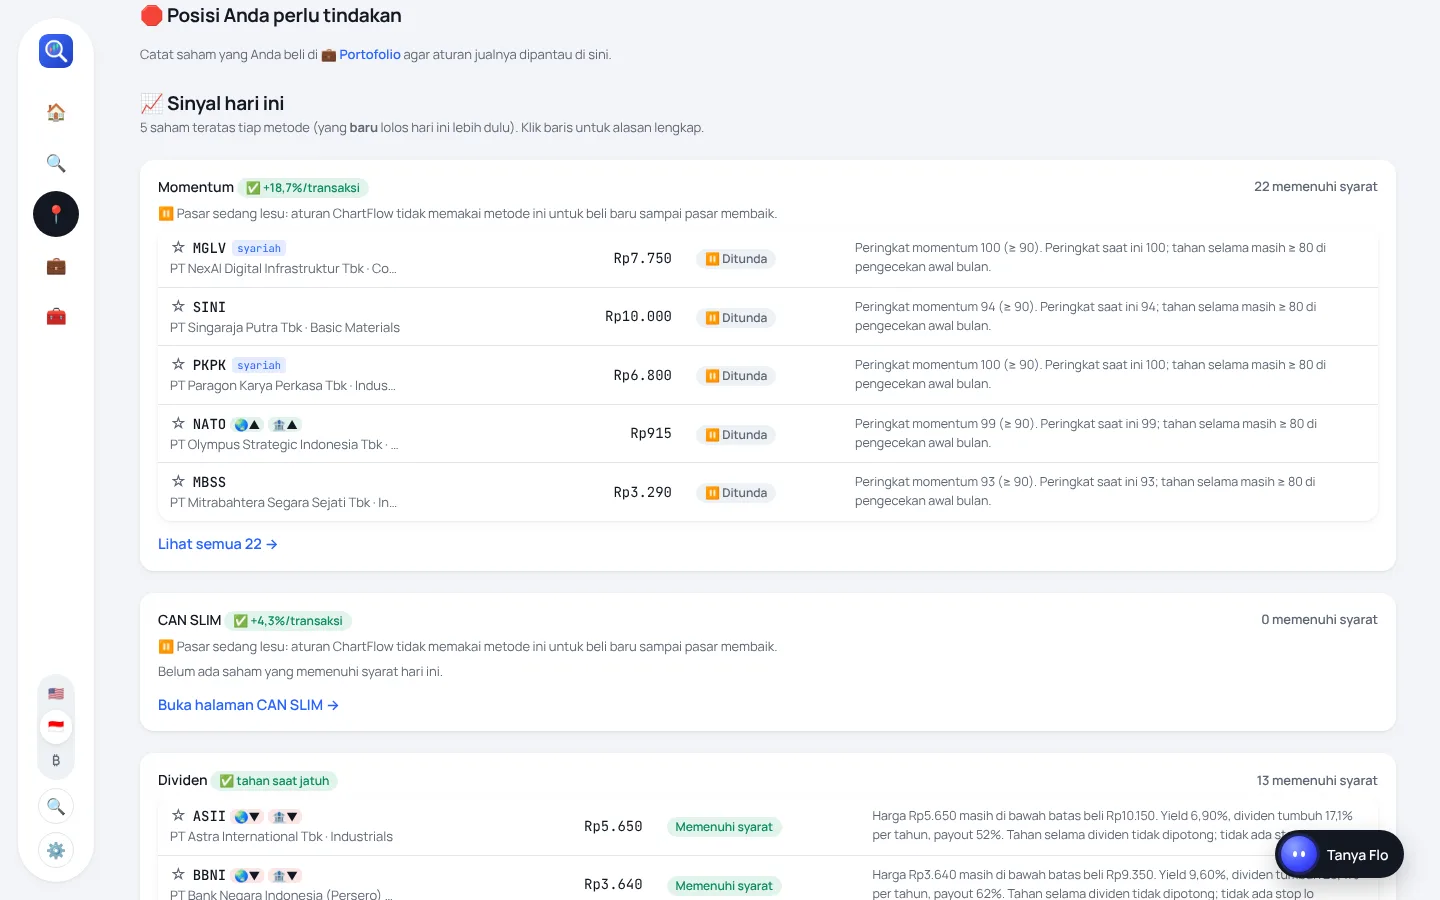
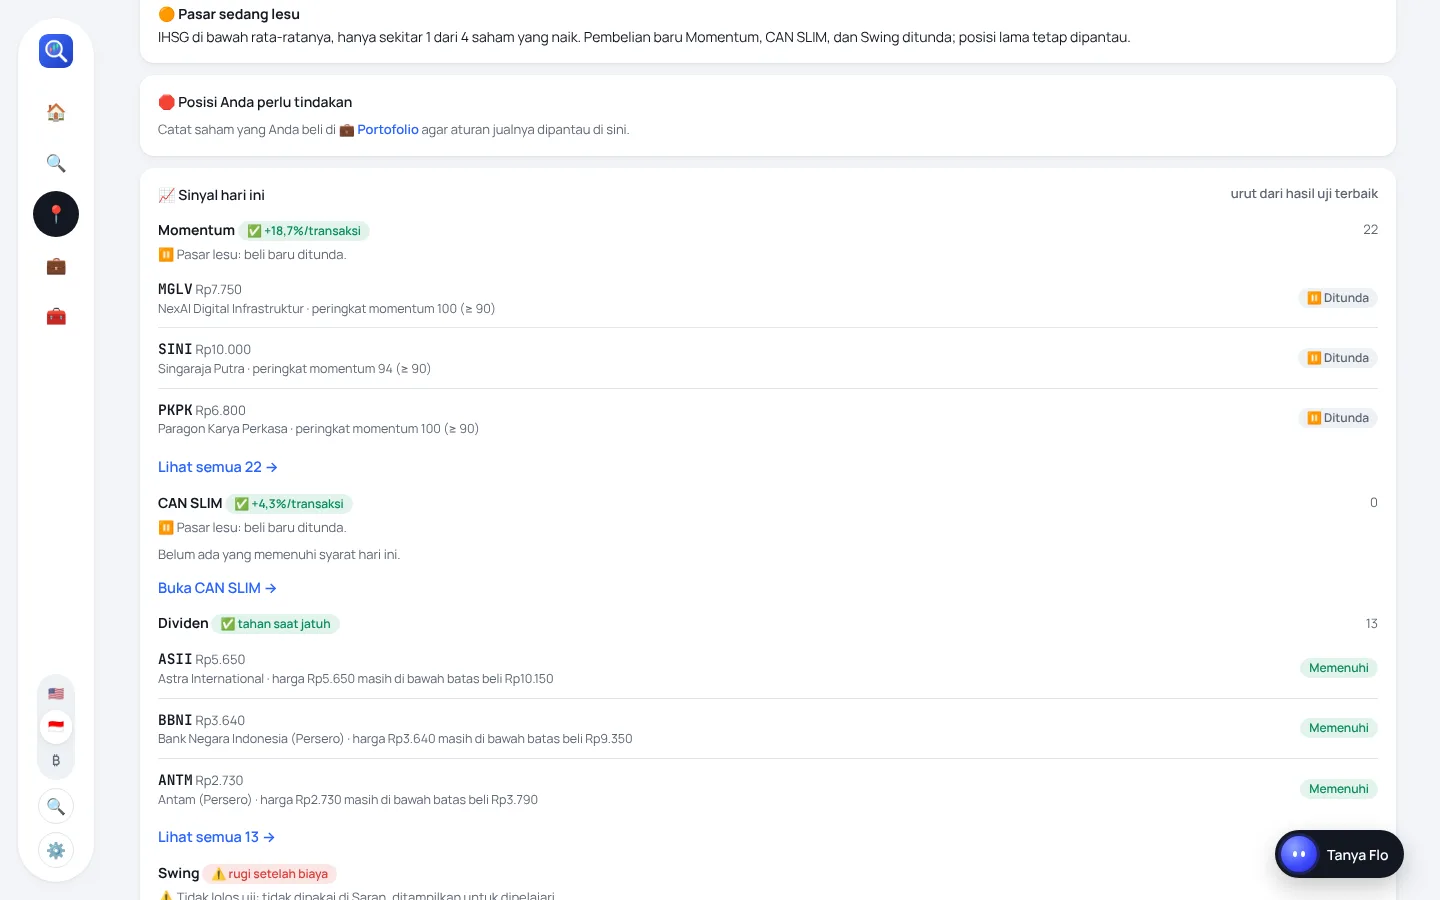
Sinyal & Beranda disamakan dengan gambar usulan
- Tab Sinyal: baris ringkas (kode, harga, nama singkat + alasan pendek,
  label di kanan), 3 teratas per metode dalam satu kartu "Sinyal hari ini",
  pita kondisi pasar di atas menggantikan kotak Saran panjang.
- Beranda: pita pasar, "📌 Hari ini", ringkasan Portofolio, dan
  "📊 Metode yang paling terbukti" sebelum grafik.
- Screenshot galeri shot-watch & shot-mobile diambil ulang.

Claude-Session: https://claude.ai/code/session_0176tunsb29pAdeSU8BJReWp

diff --git a/index.html b/index.html
@@ -737,6 +737,11 @@ body{transition:padding-right .55s cubic-bezier(.2,.8,.2,1)}
 /* ---------- Pengaturan: ukuran huruf & animasi ---------- */
 :root[data-fs=s]{zoom:.9}:root[data-fs=l]{zoom:1.12}
 :root[data-anim="0"] *,:root[data-anim="0"] *::before,:root[data-anim="0"] *::after{animation:none!important;transition:none!important;scroll-behavior:auto!important}
+.sgi{display:flex;justify-content:space-between;align-items:center;gap:10px;padding:10px 0;border-top:1px solid var(--line);cursor:pointer}
+.sgi:first-child{border-top:none}.sgi>div{min-width:0}.sgi .tk{font-weight:800}.sgi .sub{display:block;color:var(--muted);font-size:12.5px;line-height:1.4;overflow-wrap:anywhere}
+.sgi .pf{display:block;font-size:11.5px;font-weight:700;color:var(--good)}.sgi .pf.no{color:var(--bad)}.sgi .pf.mu{color:var(--muted)}.sgi>.st,.sgi>.rt{flex:none;white-space:nowrap}
+.sgh{display:flex;justify-content:space-between;align-items:center;gap:8px;margin:12px 0 2px;font-size:14px}.sgh:first-child{margin-top:0}
+.mband{border-left:5px solid var(--warn);gap:2px;font-size:14px}.mband.g{border-left-color:var(--good)}.mband.r{border-left-color:var(--bad)}
 .linkbtn{background:none;border:none;color:var(--accent);font:inherit;font-weight:600;cursor:pointer;padding:6px 0 0;text-align:left}
 .sgc{gap:6px}.sgc h4{flex-wrap:wrap;gap:6px}.sgc table td{padding-top:8px;padding-bottom:8px}
 /* ---------- Pengaturan: dialog ---------- */
@@ -1184,7 +1189,7 @@ function renderSummary(box){
   const E=(DATA&&DATA.etf)||{}, ek=Object.keys(E).filter(k=>k!=="IHSG"&&E[k].perf1y!=null).slice(0,3);
   const etfNote=IS_ID?(E.IHSG&&E.IHSG.perf1y!=null?`<p class="note">Pembanding: IHSG ${pct(E.IHSG.perf1y)} dalam setahun. ETF di BEI umumnya sepi transaksi, jadi membeli saham pilihan atau reksa dana indeks sering lebih praktis.</p>`:"")
     :(ek.length?`<p class="note">Cara paling sederhana tetap membeli indeks: ${ek.map(k=>`${esc(k)} ${pct(E[k].perf1y)}`).join(" · ")} dalam setahun. Bila tidak sempat memilih saham, ini pilihan dengan bukti terkuat.</p>`:"");
-  box.innerHTML=todayCard()+dashHTML(filtered())+saranBox(sm.html+candHtml+etfNote)+`<div class="rhead"><div class="l"><h2>Sinyal 7 metode per saham</h2>
+  box.innerHTML=homeTop()+dashHTML(filtered())+saranBox(sm.html+candHtml+etfNote)+`<div class="rhead"><div class="l"><h2>Sinyal 7 metode per saham</h2>
       <p class="note">${ixFilter==="L"?"Saham likuid saja. ":""}${counts.buy} saham layak beli${counts.hold?`, ${counts.hold} ada di Portofolio Anda`:""}${counts.sell?`, ${counts.sell} punya sinyal jual (hindari)`:""}. Klik baris untuk alasan, harga patokan, dan kriteria tiap metode.</p></div>
       <label for="fSel">Tampilkan <select id="fSel">${[["","Semua saham"],["buy",`Layak beli (${counts.buy})`],["hold",`Di Portofolio (${counts.hold})`],["sell",`Sinyal jual (${counts.sell})`],["pass3","Lolos kriteria ≥ 3 metode"]].map(([v,t])=>`<option value="${v}" ${v===fSel?"selected":""}>${t}</option>`).join("")}</select></label></div>
     <div class="legend">${M.map(m=>`<span><span class="mc wait" style="width:20px;height:18px">${m.abbr}</span>${esc(m.name)}</span>`).join("")}
@@ -2064,12 +2069,27 @@ function sigBuyNew(){ const allow=allowedMethods(); let n=filtered().filter(o=>a
 function todayCard(){
   const P=porto(), acts=P.open.length?sigActs():[], nb=sigBuyNew(), td=(DATA&&DATA.priceDate)||"", st=stars(), own=new Set(P.open.map(p=>p.code));
   const ex=rows.filter(o=>(st.has(o.ticker)||own.has(o.ticker))&&o.dv&&o.dv.ex&&o.dv.ex>=td&&(new Date(o.dv.ex)-new Date(td))/864e5<=7).length;
-  const it=(ic,txt,btn,cls,go)=>`<div class="row" style="cursor:pointer" data-gotab="${go}"><span>${ic} ${txt}</span><span class="st ${cls}" style="align-self:center;white-space:nowrap;flex:none">${btn}</span></div>`, L=[];
+  const it=(ic,txt,btn,cls,go)=>`<div class="sgi" data-gotab="${go}"><span>${ic} ${txt}</span><span class="st ${cls}">${btn}</span></div>`, L=[];
   if(P.open.length) L.push(acts.length?it("🛑",`<b>${acts.length} posisi</b> Anda perlu tindakan`,"lihat","sell","watch"):it("✅",`${P.open.length} posisi Anda belum perlu tindakan`,"cek","buy","porto"));
   L.push(nb?it("📈",`<b>${nb} sinyal beli baru</b> dari metode yang dipakai`,"lihat","buy","watch"):it("📈","Belum ada sinyal beli baru hari ini","lihat","wait","watch"));
   if(ex) L.push(it("💰",`<b>${ex} saham</b> pantauan/portofolio Anda ex-dividen dalam 7 hari`,"jadwal","hold","divcal"));
   if(!st.size) L.push(it("★","Tandai saham dengan ☆ agar dipantau di tab Sinyal","cara","wait","watch"));
-  return `<div class="mcard" style="gap:4px;margin-bottom:12px"><h4><span>📌 Hari ini</span><span class="note">${td?tgl(td,1):""}</span></h4><div class="dl">${L.join("")}</div></div>`;
+  return `<div class="mcard" style="gap:2px"><h4><span>📌 Hari ini</span><span class="note">${td?tgl(td,1):""}</span></h4><div>${L.join("")}</div></div>`;
+}
+// pita kondisi pasar ringkas (judul + satu kalimat)
+function marketBand(){ const r=regime(), idx=IS_ID?"IHSG":"S&P 500", fr=fracTxt(r.b);
+  const c=r.k==="naik"?"g":r.k==="campuran"?"":"r", ic=r.k==="naik"?"🟢":r.k==="campuran"?"🟡":"🟠";
+  const t=r.k==="naik"?"Pasar sedang sehat":r.k==="campuran"?"Pasar campuran":"Pasar sedang lesu";
+  const x=r.k==="tertekan"?`${idx} di bawah rata-ratanya${fr?`, hanya ${fr} saham yang naik`:""}. Pembelian baru Momentum, CAN SLIM, dan Swing ditunda; posisi lama tetap dipantau.`:r.k==="campuran"?`${fr?`Baru ${fr} saham yang sedang naik`:"Pasar belum kompak"}. Pilih-pilih, utamakan metode yang lolos uji.`:`${fr?`${fr[0].toUpperCase()+fr.slice(1)} saham sedang naik`:"Mayoritas saham sedang naik"}; semua metode aktif.`;
+  return `<div class="mcard mband ${c}"><b>${ic} ${t}</b><span>${x}</span></div>`; }
+// Beranda: ringkasan Portofolio + metode yang paling terbukti
+function homeTop(){
+  const P=porto(); let por="";
+  if(P.open.length){ const E=P.open.map(posEval).filter(e=>e.val!=null), v=E.reduce((a,e)=>a+e.val,0), c=E.reduce((a,e)=>a+e.cost,0), pl=E.reduce((a,e)=>a+e.pl,0);
+    por=`<div class="mcard" style="gap:2px;cursor:pointer" data-gotab="porto"><h4><span>💼 Portofolio</span><span class="note">${P.open.length} posisi</span></h4><div class="dl"><div><span>Nilai</span><b class="num">${usd(Math.round(v))}</b></div><div><span>Untung/rugi</span><b class="num ${pl>=0?"ok":"no"}">${pl>=0?"+":"−"}${usd(Math.abs(Math.round(pl)))} (${pct(c?pl/c*100:0,1)})</b></div></div></div>`; }
+  const top=ordTabs(M.map(m=>({id:m.id})).concat(IS_ID?[{id:"pbt"}]:[])).filter(x=>(methodProof(x.id)||{}).c==="buy").slice(0,3);
+  const pr=top.length?`<div class="mcard" style="gap:2px"><h4><span>📊 Metode yang paling terbukti</span><span class="note">uji ${ltYrs()}</span></h4><div>${top.map(x=>{ const q=methodProof(x.id); return `<div class="sgi" data-gotab="${x.id}"><span>${esc(x.id==="pbt"?"Pullback Tren":MID[x.id].name)}</span><span class="pf">${esc(q.s)}</span></div>`; }).join("")}</div></div>`:"";
+  return `<div style="display:flex;flex-direction:column;gap:12px;margin-bottom:12px">${marketBand()}${todayCard()}${por}${pr}</div>`;
 }
 function renderPbt(box){
   if(IS_ID&&!PBT_P) loadPbt().then(()=>{ if(tab==="pbt") renderResults(); });
@@ -2079,31 +2099,41 @@ function renderPbt(box){
 function renderWatch(box){
   if(IS_ID&&!PBT_P) loadPbt().then(()=>{ if(tab==="watch") renderResults(); });
   const P=porto(), acts=P.open.length?sigActs():[], allow=allowedMethods(), r=regime(), list=filtered(), td=(DATA&&DATA.priceDate)||"";
-  const cell=t=>{ const o=rows.find(x=>x.ticker===t); return o?stockCell(o):`<td><span class="tk">${esc(t)}</span></td>`; };
+  const co=o=>esc(String(o.company||"").replace(/^PT\s+/,"").replace(/\s+Tbk\.?$/,"").slice(0,40));
+  const short=t=>{ t=String(t||""); return esc(t.length>90?t.slice(0,88).replace(/\s\S*$/,"")+"…":t); };
+  const regP=id=>r.k==="tertekan"&&["canslim","momentum","swing"].includes(id)&&!badTrader().includes(id);
+  // 1. posisi perlu tindakan
   const actHtml=!P.open.length?`<p class="note" style="margin:0">Catat saham yang Anda beli di <button type="button" class="linkbtn" data-gotab="porto">💼 Portofolio</button> agar aturan jualnya dipantau di sini.</p>`
-    :acts.length?`<div class="tablebox"><table class="cards"><tbody>${acts.map(x=>{ const a=x.e.acts.filter(a=>a.lv<=1); return `<tr class="row" data-t="${esc(x.ps.code)}" tabindex="0">${cell(x.ps.code)}<td class="full" data-label="Aturan jual" style="font-size:13.5px">${a.map(y=>`${y.ic} ${esc(y.t)}`).join("<br>")}</td><td class="act"><button type="button" class="linkbtn" data-gotab="porto">Buka Portofolio →</button></td></tr>`; }).join("")}</tbody></table></div>`
+    :acts.length?acts.map(x=>{ const a=x.e.acts.filter(a=>a.lv<=1), m=MID[x.ps.method]; return `<div class="sgi row" data-t="${esc(x.ps.code)}"><div><span class="tk">${esc(x.ps.code)}</span><span class="sub">${m?esc(m.name)+" · ":""}${a.map(y=>`${y.ic} ${esc(y.t)}`).join(" · ")}</span></div><span class="st sell">${a.some(y=>y.lv===0)?"Jual":"Cek"}</span></div>`; }).join("")
     :`<p class="note" style="margin:0">✅ ${P.open.length} posisi Anda belum perlu tindakan menurut aturan jual.</p>`;
-  const ids=ordTabs(M.map(m=>({id:m.id}))).map(x=>x.id), regP=id=>r.k==="tertekan"&&["canslim","momentum","swing"].includes(id)&&!badTrader().includes(id);
-  const grp=ids.map(id=>{ const m=MID[id], paused=!allow.includes(id);
+  // 2. sinyal tiap metode, urut menurut hasil uji
+  const ids=ordTabs(M.map(m=>({id:m.id}))).map(x=>x.id);
+  const grp=ids.map(id=>{ const m=MID[id], q=methodProof(id), paused=!allow.includes(id);
     const U=list.map(o=>({o,u:uv(o,id)})).filter(x=>x.u.s==="buy").sort((a,b)=>(b.u.fresh-a.u.fresh)||((b.o.mcap||0)-(a.o.mcap||0)));
-    const nw=U.filter(x=>x.u.fresh).length;
-    return `<div class="mcard sgc" style="margin-top:10px"><h4><span>${esc(m.name)} ${proofChip(id)}</span><span class="note">${U.length} ${regP(id)?"memenuhi syarat":"layak beli"}${nw?` · ${nw} baru`:""}</span></h4>
-      ${paused?`<p class="note" style="margin:0">⏸ ${regP(id)?"Pasar sedang lesu: aturan ChartFlow tidak memakai metode ini untuk beli baru sampai pasar membaik.":"Metode ini tidak lolos uji, jadi tidak dipakai di Saran. Sinyalnya tetap ditampilkan untuk dipelajari."}</p>`:""}
-      ${U.length?`<div class="tablebox"><table class="cards"><tbody>${U.slice(0,5).map(x=>`<tr class="row" data-t="${esc(x.o.ticker)}" tabindex="0">${stockCell(x.o)}<td class="num" data-label="Harga">${usd(x.o.price)}</td><td data-label="Status">${regP(id)?`<span class="st wait">⏸ ${T("Tunggu pasar","Ditunda")}</span>`:uchip(x.u)}</td><td class="why full" data-label="Alasan" style="font-size:12.5px">${esc(ureason(x.u).slice(0,160))}</td></tr>`).join("")}</tbody></table></div>`:`<p class="note" style="margin:0">Belum ada saham yang memenuhi syarat hari ini.</p>`}
-      <button type="button" class="linkbtn" data-gotab="${id}">${U.length>5?`Lihat semua ${U.length} →`:`Buka halaman ${esc(m.name)} →`}</button></div>`; }).join("");
+    const chip=x=>regP(id)?`<span class="st wait">⏸ ${T("Tunggu","Ditunda")}</span>`:`<span class="st buy">${T("Layak beli","Memenuhi")}</span>`;
+    return `<div class="sgh"><span><b>${esc(m.name)}</b> ${q?`<span class="st ${q.c}">${q.ic} ${esc(q.s)}</span>`:""}</span><span class="note">${U.length}</span></div>
+      ${paused?`<p class="note" style="margin:0 0 2px">${regP(id)?"⏸ Pasar lesu: beli baru ditunda.":"⚠ Tidak lolos uji: tidak dipakai di Saran, ditampilkan untuk dipelajari."}</p>`:""}
+      <div>${U.length?U.slice(0,3).map(x=>`<div class="sgi row" data-t="${esc(x.o.ticker)}"><div><span class="tk">${esc(x.o.ticker)}</span>${x.u.fresh?' <span class="st new">baru</span>':""} <span class="note">${usd(x.o.price)}</span><span class="sub">${co(x.o)} · ${short(x.u.why||x.u.rs)}</span></div>${chip(x)}</div>`).join(""):`<p class="note" style="margin:4px 0">Belum ada yang memenuhi syarat hari ini.</p>`}</div>
+      <button type="button" class="linkbtn" data-gotab="${id}">${U.length>3?`Lihat semua ${U.length} →`:`Buka ${esc(m.name)} →`}</button>`; }).join("");
+  // 3. Pullback Tren (BEI)
+  const pb=IS_ID&&PBT&&PBT.date?(()=>{ const ok=PBT.mkt&&PBT.mkt.ok, nw=PBT.now||[], op=PBT.open||[];
+    return `<div class="sgh"><span><b>Pullback Tren</b> ${proofChip("pbt")}</span><span class="note">${ok?nw.length:"⏸"}</span></div>
+      <p class="note" style="margin:0 0 2px">${ok?"Tambahan khusus BEI, racikan ChartFlow (ide Larry Connors).":`⏸ ${IS_ID?"IHSG":"Indeks"} di bawah rata-rata 50 hari: sinyal baru ditunda${op.length?`; ${op.length} posisi simulasi berjalan`:""}.`}</p>
+      <div>${ok?nw.slice(0,3).map(x=>{ const t=x.t||x.ticker||x; return `<div class="sgi row" data-t="${esc(t)}"><div><span class="tk">${esc(t)}</span><span class="sub">beli di pembukaan besok · jual saat tutup di atas SMA5</span></div><span class="st buy">${T("Sinyal beli","Memenuhi")}</span></div>`; }).join(""):""}</div>
+      <button type="button" class="linkbtn" data-gotab="pbt">Buka Pullback Tren →</button>`; })():"";
+  // 4. pantauan ★
   const st=stars(), starred=[...st].map(t=>rows.find(x=>x.ticker===t)).filter(Boolean);
-  const rem=o=>{ const L=[]; if(o.dv&&o.dv.ex&&o.dv.ex>=td){ const d=Math.round((new Date(o.dv.ex)-new Date(td))/864e5); if(d<=21) L.push(`💰 ex-dividen ${d?d+" hari lagi":"hari ini"}`); } if(P.open.some(p=>p.code===o.ticker)) L.push("💼 di Portofolio"); return L.join("<br>")||'<span class="note">–</span>'; };
+  const rem=o=>{ const L=[]; if(o.dv&&o.dv.ex&&o.dv.ex>=td){ const d=Math.round((new Date(o.dv.ex)-new Date(td))/864e5); if(d<=21) L.push(`💰 ex-div ${d?d+" hari":"hari ini"}`); } if(P.open.some(p=>p.code===o.ticker)) L.push("💼 dimiliki"); return L.join(" · "); };
+  const mst=o=>{ const b=[],h=[],x=[]; M.forEach(m=>{ const u=uv(o,m.id); if(u.s==="buy") b.push(m.name); else if(u.s==="sell") x.push(m.name); else if(u.s==="hold") h.push(m.name); });
+    return b.length?`<span class="st buy">${esc(b.slice(0,2).join(", "))}${b.length>2?` +${b.length-2}`:""}</span>`:x.length?`<span class="st sell">${esc(x[0])}: ${o&&P.open.some(p=>p.code===o.ticker)?"jual":"hindari"}</span>`:h.length?`<span class="st hold">${esc(h[0])}: tahan</span>`:`<span class="st wait">belum ada</span>`; };
+  const watchHtml=starred.length?starred.map(o=>`<div class="sgi row" data-t="${esc(o.ticker)}"><div><span class="tk">${esc(o.ticker)}</span> <span class="note">${usd(o.price)}</span><span class="sub">${rem(o)||co(o)}</span></div><span class="rt">${mst(o)} ${alarmBtn(o.ticker,null,o.price)}</span></div>`).join("")
+    :`<p class="note" style="margin:0">Belum ada. Ketuk ☆ di tabel mana pun untuk menandai saham.</p>`;
   const AR=LT&&LT.area&&LT.area.pick;
-  box.innerHTML=saranBox(`${saranMarket().head}<ul class="sl"><li>🛑 Paling atas: posisi Anda yang aturan jualnya terpenuhi.</li><li>📈 Lalu sinyal beli tiap metode, <b>diurutkan dari yang hasil ujinya paling baik</b>. Label di samping nama metode adalah hasil uji ${ltYrs()}.</li><li>★ Paling bawah: saham yang Anda tandai.</li></ul>`)+`
-    <div class="rhead" style="margin-top:12px"><div class="l"><h2>🛑 Posisi Anda perlu tindakan${acts.length?` · ${acts.length}`:""}</h2></div></div>${actHtml}
-    <div class="rhead" style="margin-top:16px"><div class="l"><h2>📈 Sinyal hari ini</h2><p class="note">5 saham teratas tiap metode (yang <b>baru</b> lolos hari ini lebih dulu). Klik baris untuk alasan lengkap.</p></div></div>
-    ${grp}
-    ${IS_ID?`<div style="margin-top:16px"><p class="note" style="margin:0 2px 4px">↩ <b>Pullback Tren</b> ${proofChip("pbt")} · tambahan khusus BEI, racikan ChartFlow (ide Larry Connors)</p>${pbtSection()}</div>`:""}
-    <div class="rhead" style="margin-top:16px"><div class="l"><h2>★ Pantauan saya${starred.length?` · ${starred.length}`:""}</h2><p class="note">Klik ☆ di tabel mana pun untuk menandai. 🔔 untuk pasang alarm harga.</p></div></div>
-    <div class="tablebox"><table class="cards"><thead><tr><th>Saham</th><th class="num">Harga</th><th>Pengingat</th><th>Status metode</th><th></th></tr></thead><tbody>
-    ${starred.length?starred.map(o=>`<tr class="row" data-t="${esc(o.ticker)}" tabindex="0">${stockCell(o)}<td class="num" data-label="Harga">${usd(o.price)}</td><td data-label="Pengingat" style="font-size:13px">${rem(o)}</td><td class="full" data-label="Status metode" style="font-size:13px">${sigCell(sigOf(o,M.map(m=>m.id)))}</td><td class="act">${alarmBtn(o.ticker,null,o.price)}${chartBtn(o.ticker)}</td></tr>`).join("")
-      :`<tr><td colspan="5" class="empty">Belum ada saham yang Anda tandai.</td></tr>`}</tbody></table></div>
-    <p class="note" style="margin-top:10px">📍 Zona support dan resistance tetap ada di grafik tiap saham (tombol 📈, tab Siklus) sebagai informasi. Daftar “beli di area support” tidak lagi ditampilkan sebagai sinyal${AR?`: uji ${LT.area.from.slice(0,4)}–${LT.area.to.slice(0,4)} rata-rata hanya ${pct(AR.avg,2)} per transaksi dan sekitar ${Math.round(AR.sl/10)} dari 10 kena batas rugi`:""}. <button type="button" class="linkbtn" data-gotab="uji">📏 Semua hasil uji →</button></p>`;
+  box.innerHTML=`<div style="display:flex;flex-direction:column;gap:12px">${marketBand()}
+    <div class="mcard" style="gap:2px"><h4><span>🛑 Posisi Anda perlu tindakan</span><span class="note">${acts.length||""}</span></h4><div>${actHtml}</div></div>
+    <div class="mcard" style="gap:2px"><h4><span>📈 Sinyal hari ini</span><span class="note">urut dari hasil uji terbaik</span></h4>${grp}${pb}</div>
+    <div class="mcard" style="gap:2px"><h4><span>★ Pantauan saya</span><span class="note">${starred.length?starred.length+" saham":""}</span></h4><div>${watchHtml}</div></div>
+    <div class="mcard" style="font-size:13px;color:var(--muted);gap:4px">📍 Zona support/resistance tetap ada di grafik tiap saham sebagai informasi, tidak lagi jadi daftar “beli sekarang”${AR?` (uji ${LT.area.from.slice(0,4)}–${LT.area.to.slice(0,4)}: rata-rata hanya ${pct(AR.avg,2)} per transaksi)`:""}. <button type="button" class="linkbtn" data-gotab="uji" style="padding:0">📏 Semua hasil uji →</button></div></div>`;
 }
 
 // ---------- Kalkulator ----------
